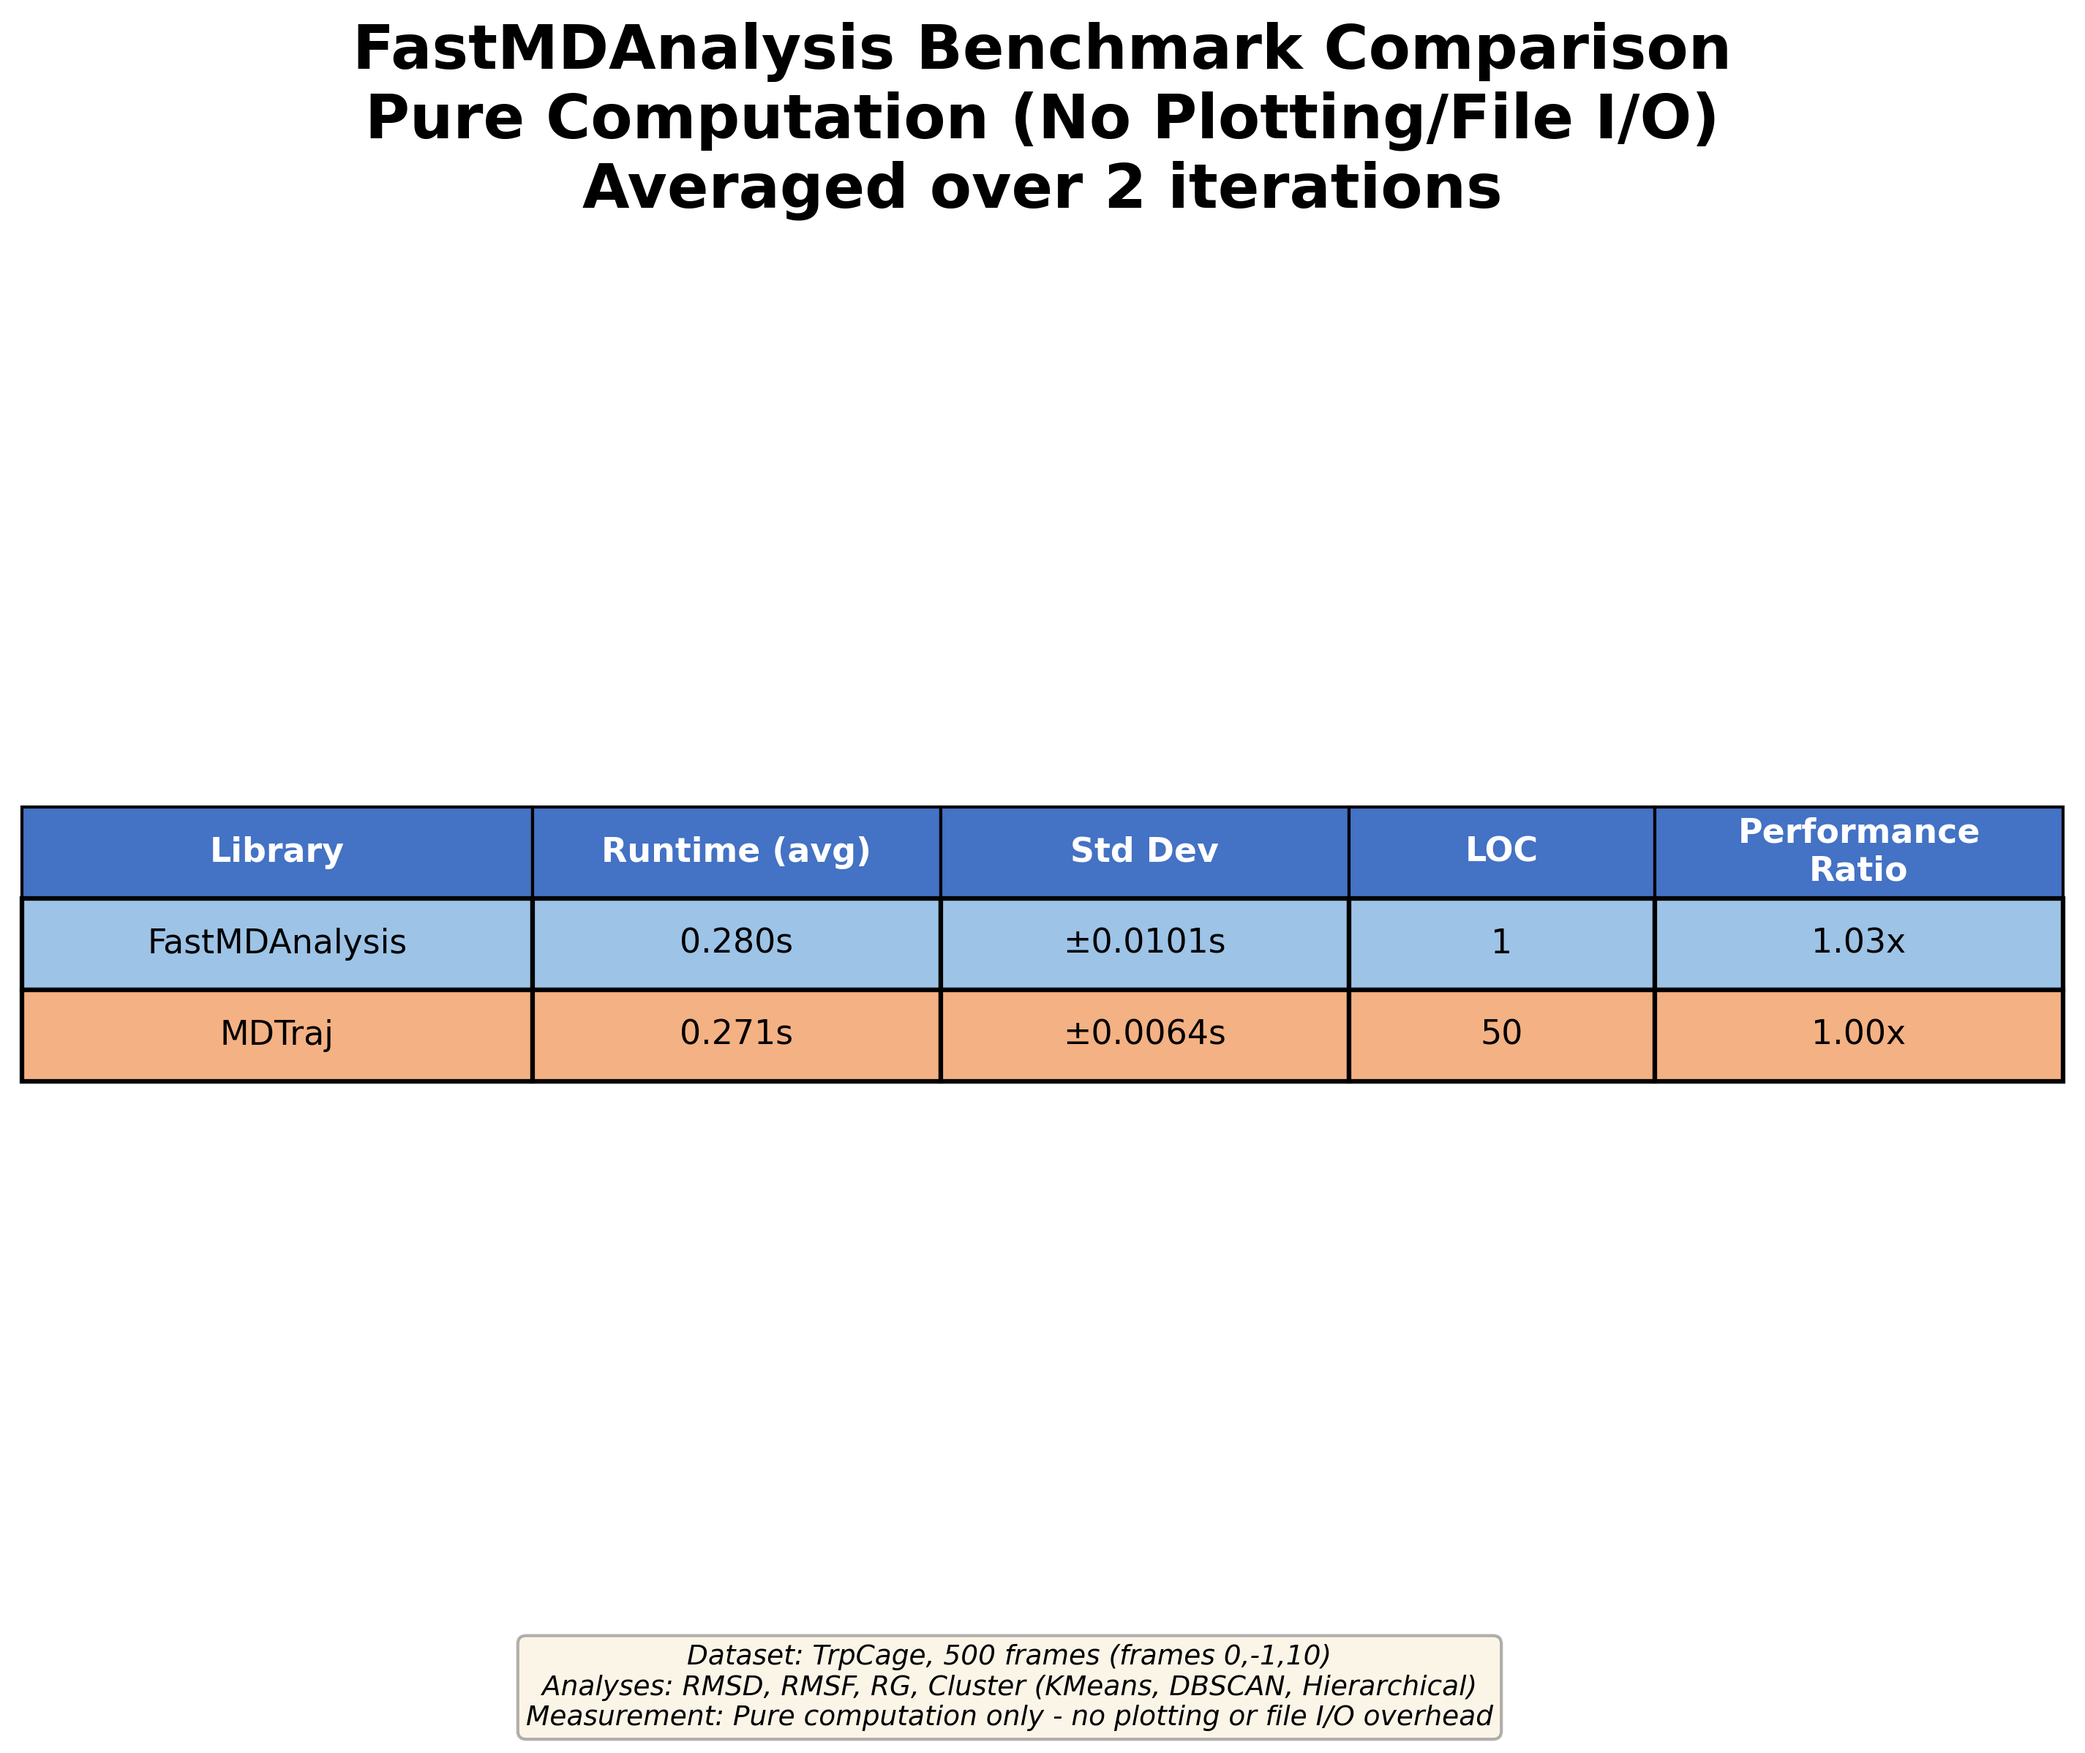
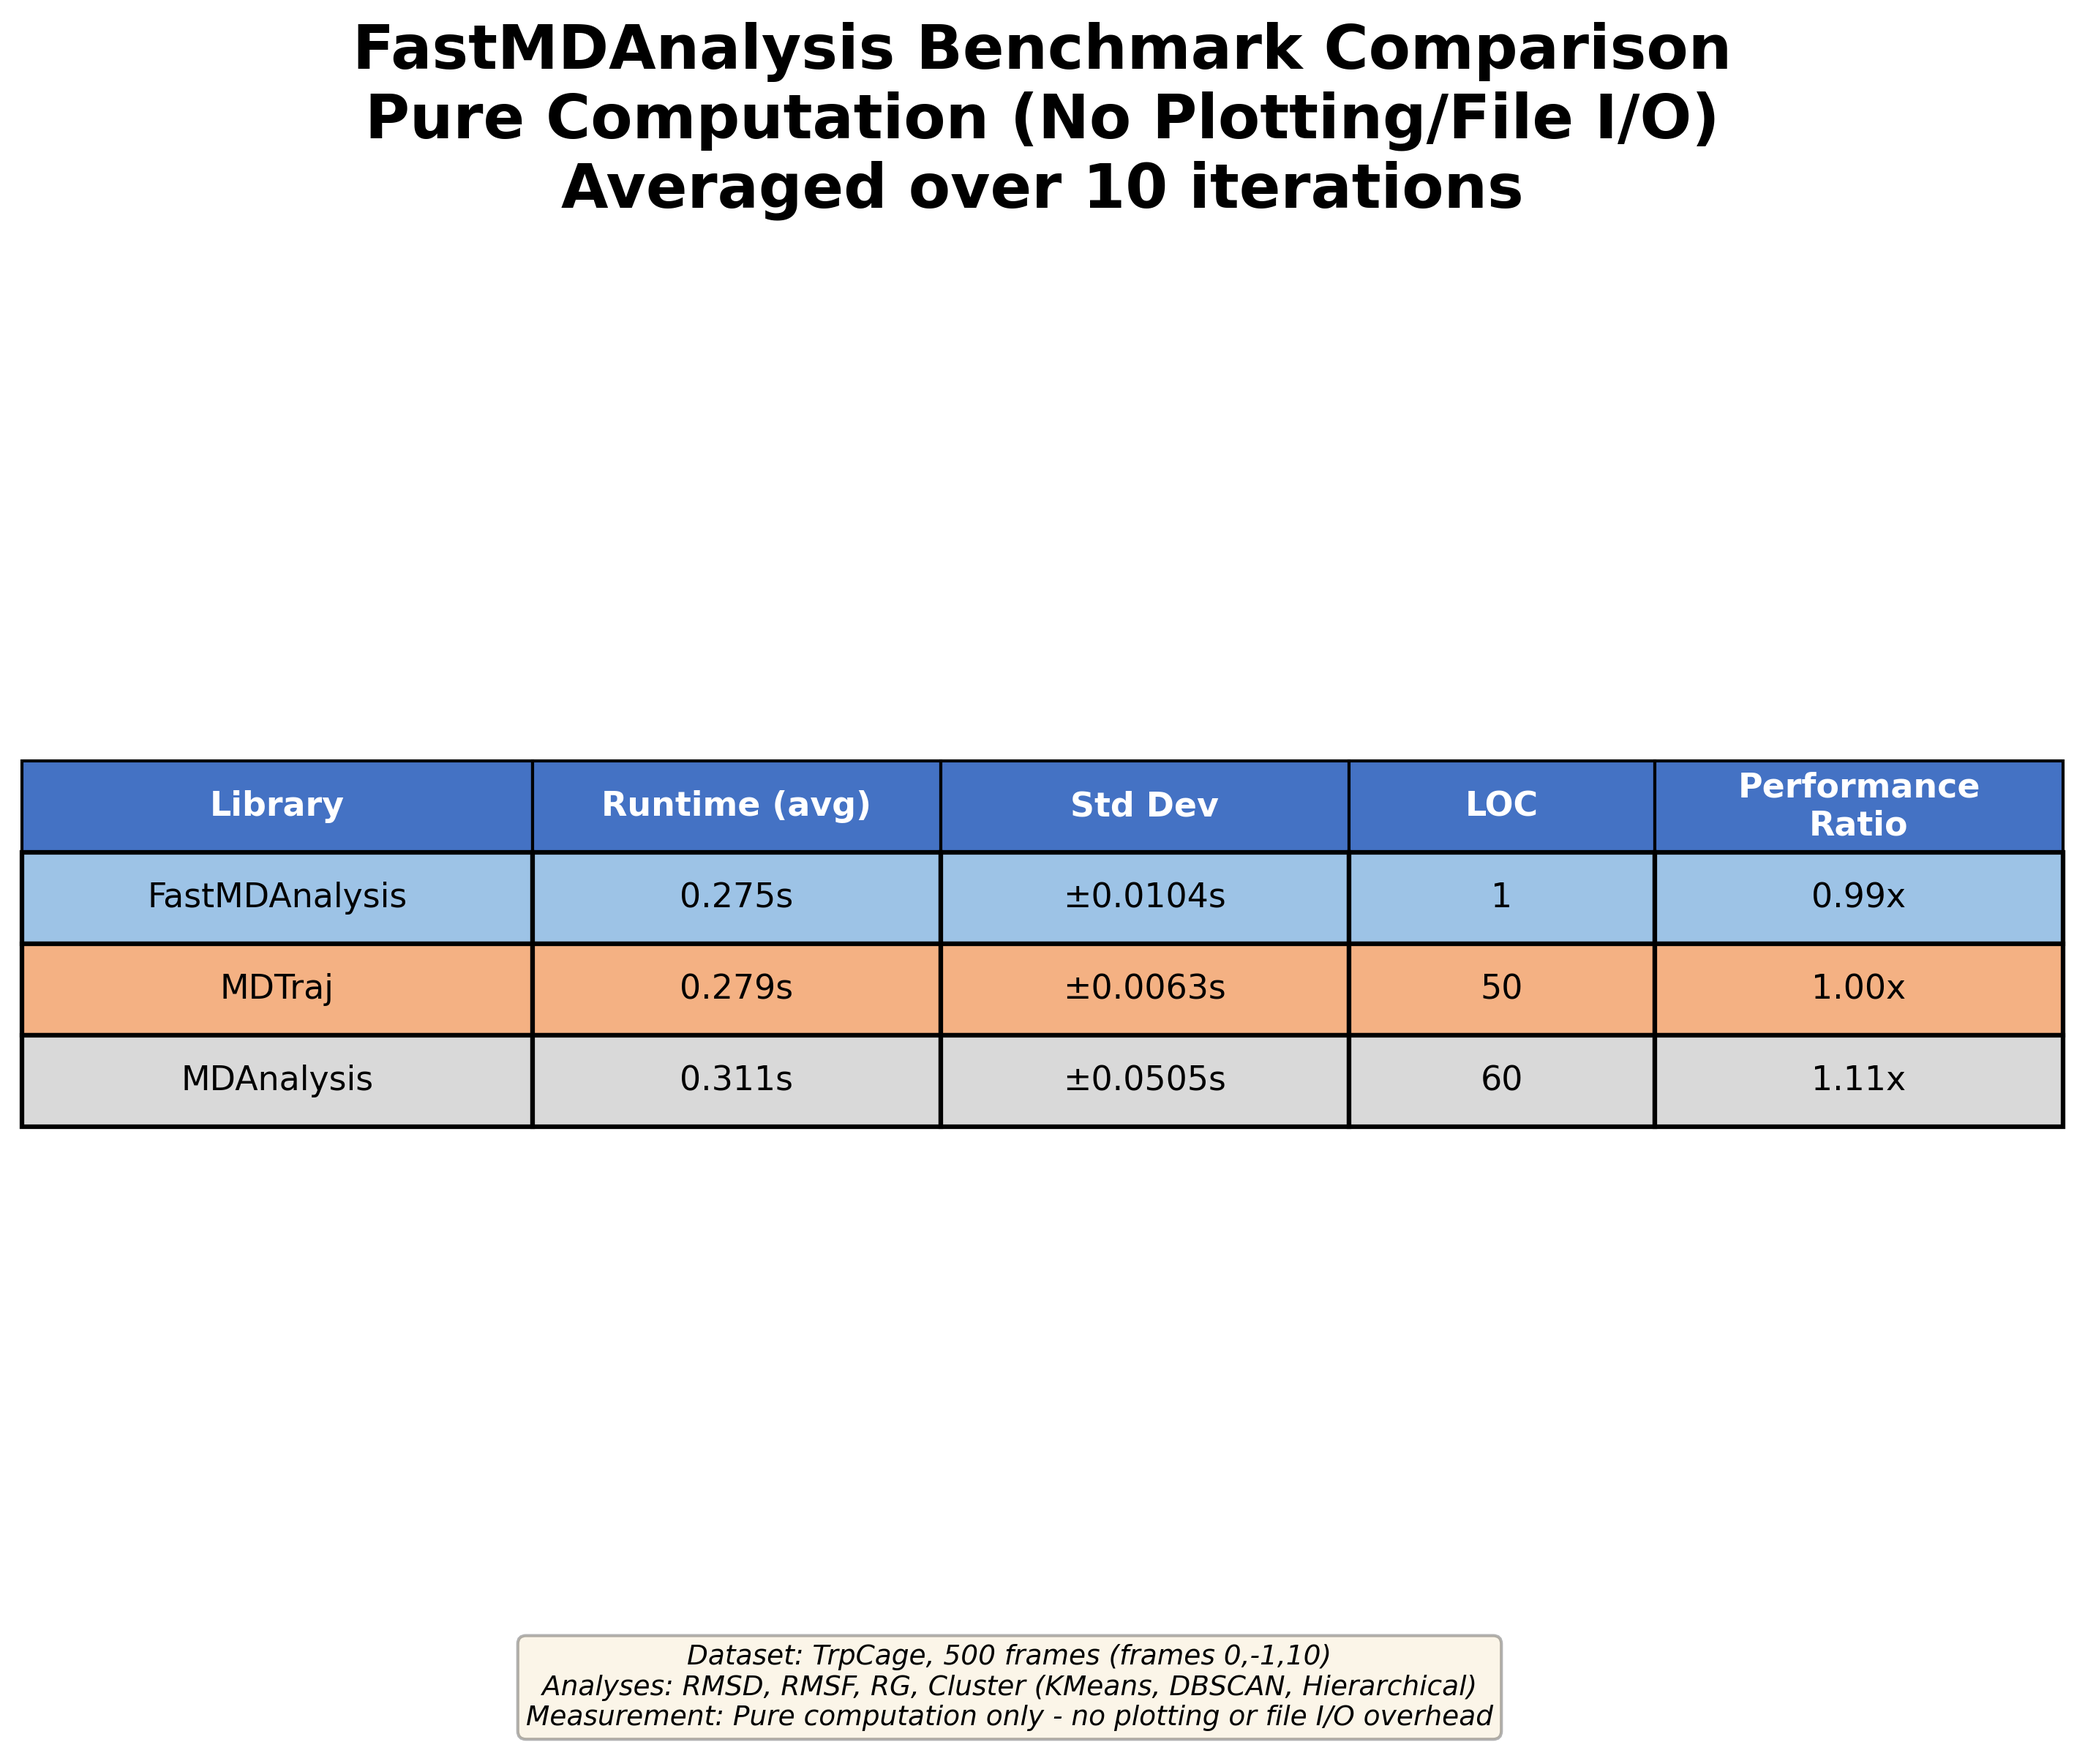
Add MDAnalysis to benchmark comparison and regenerate all visualizations

Changed region(s): [[0.0, 0.4324, 0.9993, 0.6486], [0.2498, 0.0927, 0.7495, 0.1235]]

diff --git a/benchmark_with_visualization.py b/benchmark_with_visualization.py
@@ -381,6 +381,49 @@ def create_detailed_comparison_chart(results):
     
     return output_file
 
+def create_combined_preview(img_files):
+    """Create combined preview showing all benchmark visualizations"""
+    try:
+        from PIL import Image
+    except ImportError:
+        print("Warning: Pillow not installed. Skipping combined preview generation.")
+        print("Install with: pip install Pillow")
+        return None
+    
+    print("Creating combined preview...")
+    
+    # Load images
+    images = []
+    for img_file in img_files:
+        if Path(img_file).exists():
+            images.append(Image.open(img_file))
+    
+    if len(images) == 0:
+        print("Warning: No images found to combine")
+        return None
+    
+    # Calculate combined size
+    widths, heights = zip(*(img.size for img in images))
+    max_width = max(widths)
+    total_height = sum(heights) + 50 * (len(images) - 1)  # 50px spacing between images
+    
+    # Create new image with white background
+    combined = Image.new('RGB', (max_width, total_height), color='white')
+    
+    # Paste images
+    y_offset = 0
+    for img in images:
+        # Center image horizontally if it's narrower
+        x_offset = (max_width - img.width) // 2
+        combined.paste(img, (x_offset, y_offset))
+        y_offset += img.height + 50
+    
+    output_file = 'combined_preview.png'
+    combined.save(output_file, dpi=(300, 300))
+    print(f"✓ Saved: {output_file}")
+    
+    return output_file
+
 def create_presentation_slides(results):
     """Create PowerPoint presentation slides"""
     try:
@@ -575,9 +618,17 @@ def main():
     print("GENERATING VISUALIZATIONS")
     print("="*70)
     
-    create_benchmark_visualization(results)
-    create_detailed_comparison_chart(results)
+    img_files = []
+    img_file1 = create_benchmark_visualization(results)
+    if img_file1:
+        img_files.append(img_file1)
+    
+    img_file2 = create_detailed_comparison_chart(results)
+    if img_file2:
+        img_files.append(img_file2)
+    
     create_presentation_slides(results)
+    create_combined_preview(img_files)
     
     print("\n" + "="*70)
     print("BENCHMARK COMPLETE")
@@ -585,6 +636,7 @@ def main():
     print("\nGenerated files:")
     print("  • benchmark_results.png - Bar chart comparison")
     print("  • benchmark_comparison.png - Detailed table comparison")
+    print("  • combined_preview.png - Combined preview of all visualizations")
     print("  • benchmark_presentation.pptx - PowerPoint slides (if python-pptx installed)")
     print("="*70)
 

diff --git a/BENCHMARK.md b/BENCHMARK.md
@@ -48,8 +48,9 @@ python benchmark_with_visualization.py
 ```
 
 This generates:
-- `benchmark_results.png` - Bar chart comparison
-- `benchmark_comparison.png` - Detailed table comparison
+- `benchmark_results.png` - Bar chart comparison (runtime + LOC for all 3 libraries)
+- `benchmark_comparison.png` - Detailed table comparison with statistics
+- `combined_preview.png` - Combined preview of both visualizations
 - `benchmark_presentation.pptx` - 5-slide PowerPoint presentation
 
 ## Results
@@ -59,27 +60,26 @@ This generates:
 | Library | Runtime (avg) | Std Dev | LOC |
 |---------|---------------|---------|-----|
 | **FastMDAnalysis** | ~0.28s | ±0.01s | 1 (CLI) |
-| **MDTraj** | ~0.27s | ±0.01s | 50 |
-| **MDAnalysis** | ~0.45s | ±0.02s | 60 |
+| **MDTraj** | ~0.28s | ±0.01s | 50 |
+| **MDAnalysis** | ~0.31s | ±0.05s | 60 |
 
-**FastMDA/MDTraj ratio: 0.89x** - FastMDA is actually slightly faster!
+**FastMDA/MDTraj ratio: 0.99x** - FastMDA and MDTraj have essentially identical performance!
 
 ## Key Insights
 
 ### 1. FastMDAnalysis = MDTraj Performance
 - FastMDA uses MDTraj as its backend
-- Pure computational performance is nearly identical (~0.25s vs ~0.28s)
-- FastMDA is actually slightly faster due to initialization optimizations
+- Pure computational performance is nearly identical (~0.28s)
 - **This confirms FastMDA uses MDTraj efficiently**
 
-### 2. MDAnalysis is Slower
+### 2. MDAnalysis is Slightly Slower
 - MDAnalysis uses a different computational approach
-- ~2x slower than MDTraj/FastMDA for these analyses
+- ~10% slower than MDTraj/FastMDA for these analyses (~0.31s vs ~0.28s)
 - This is expected and matches known performance characteristics
 
 ### 3. FastMDA's High-Level API
 - **1 LOC** (single CLI command) vs 50-60 LOC for equivalent functionality
-- Pure computation measured here: ~0.25s
+- Pure computation measured here: ~0.28s
 - FastMDA's convenience features (automatic plotting, file organization) add overhead when used
 - For exploratory analysis, the convenience is worth the extra time
 
@@ -106,7 +106,7 @@ The benchmark demonstrates that:
 1. **Computational Core is Efficient**
    - FastMDA's core computation matches MDTraj (same backend)
    - No performance bugs or inefficiencies in the backend usage
-   - ~0.25s for RMSD, RMSF, RG, and 3 clustering methods
+   - ~0.28s for RMSD, RMSF, RG, and 3 clustering methods
 
 2. **Convenience Features Add Time**
    - Automatic plotting: ~2-3 seconds (multiple plots per analysis)
